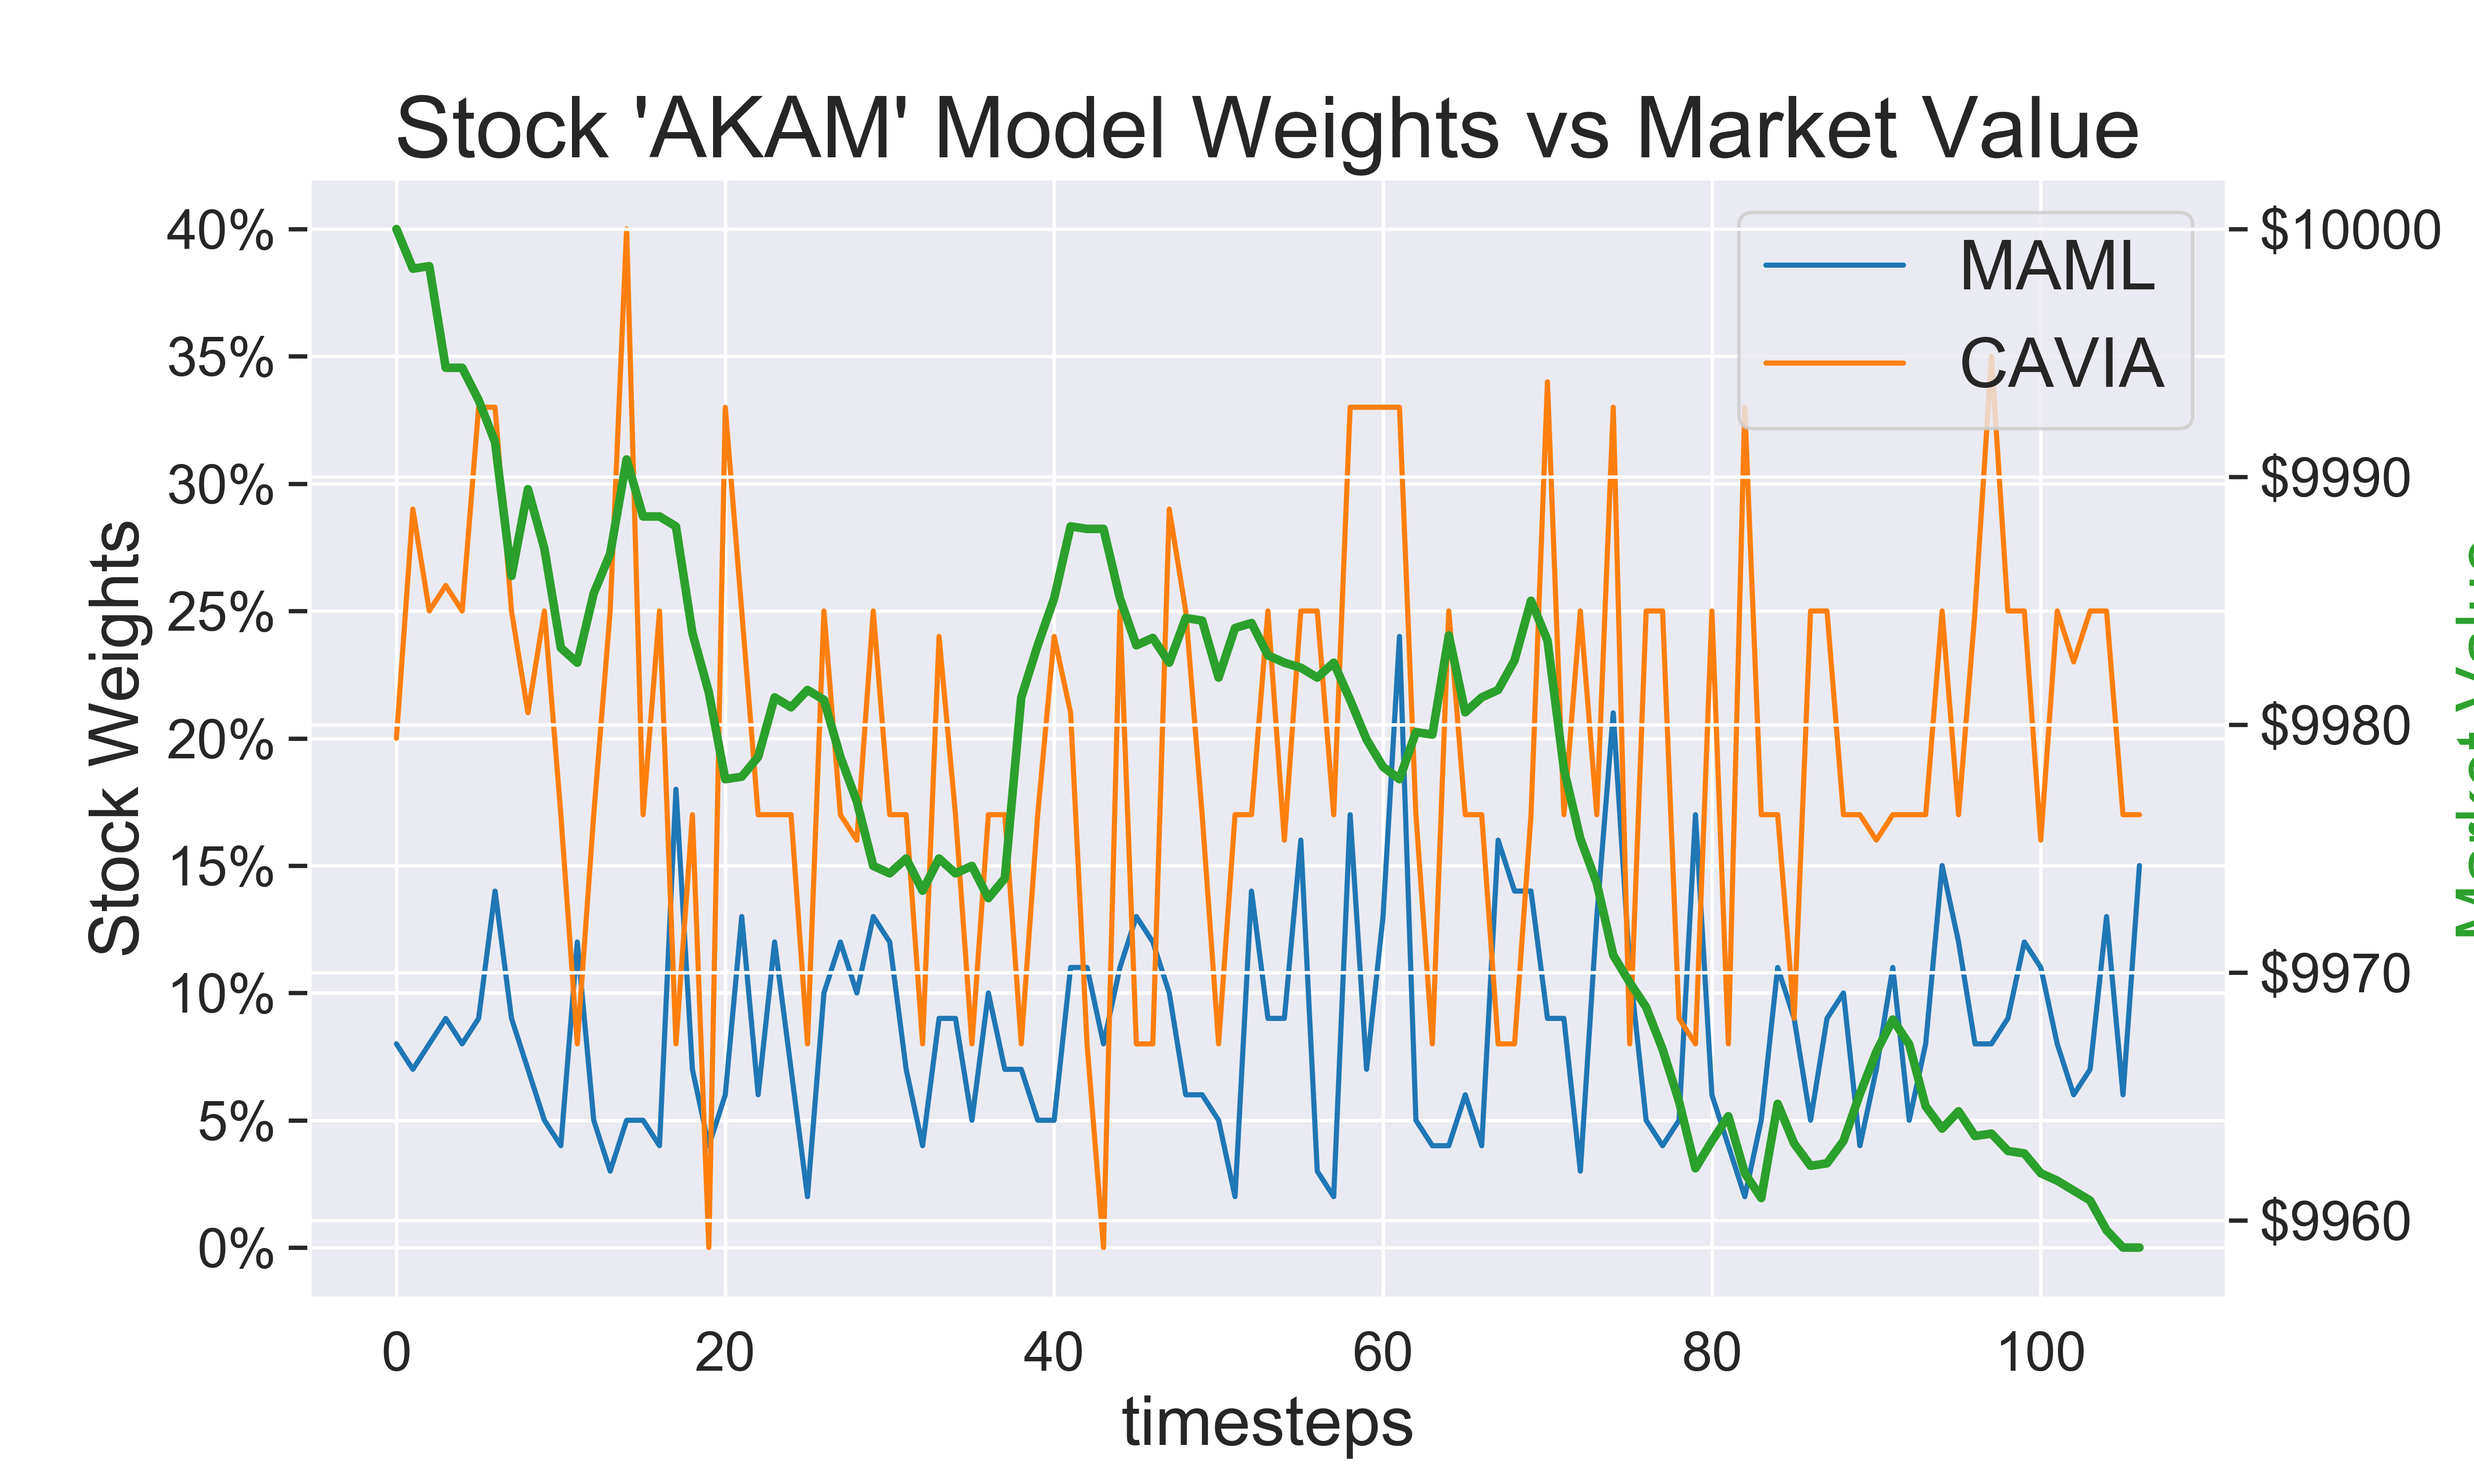
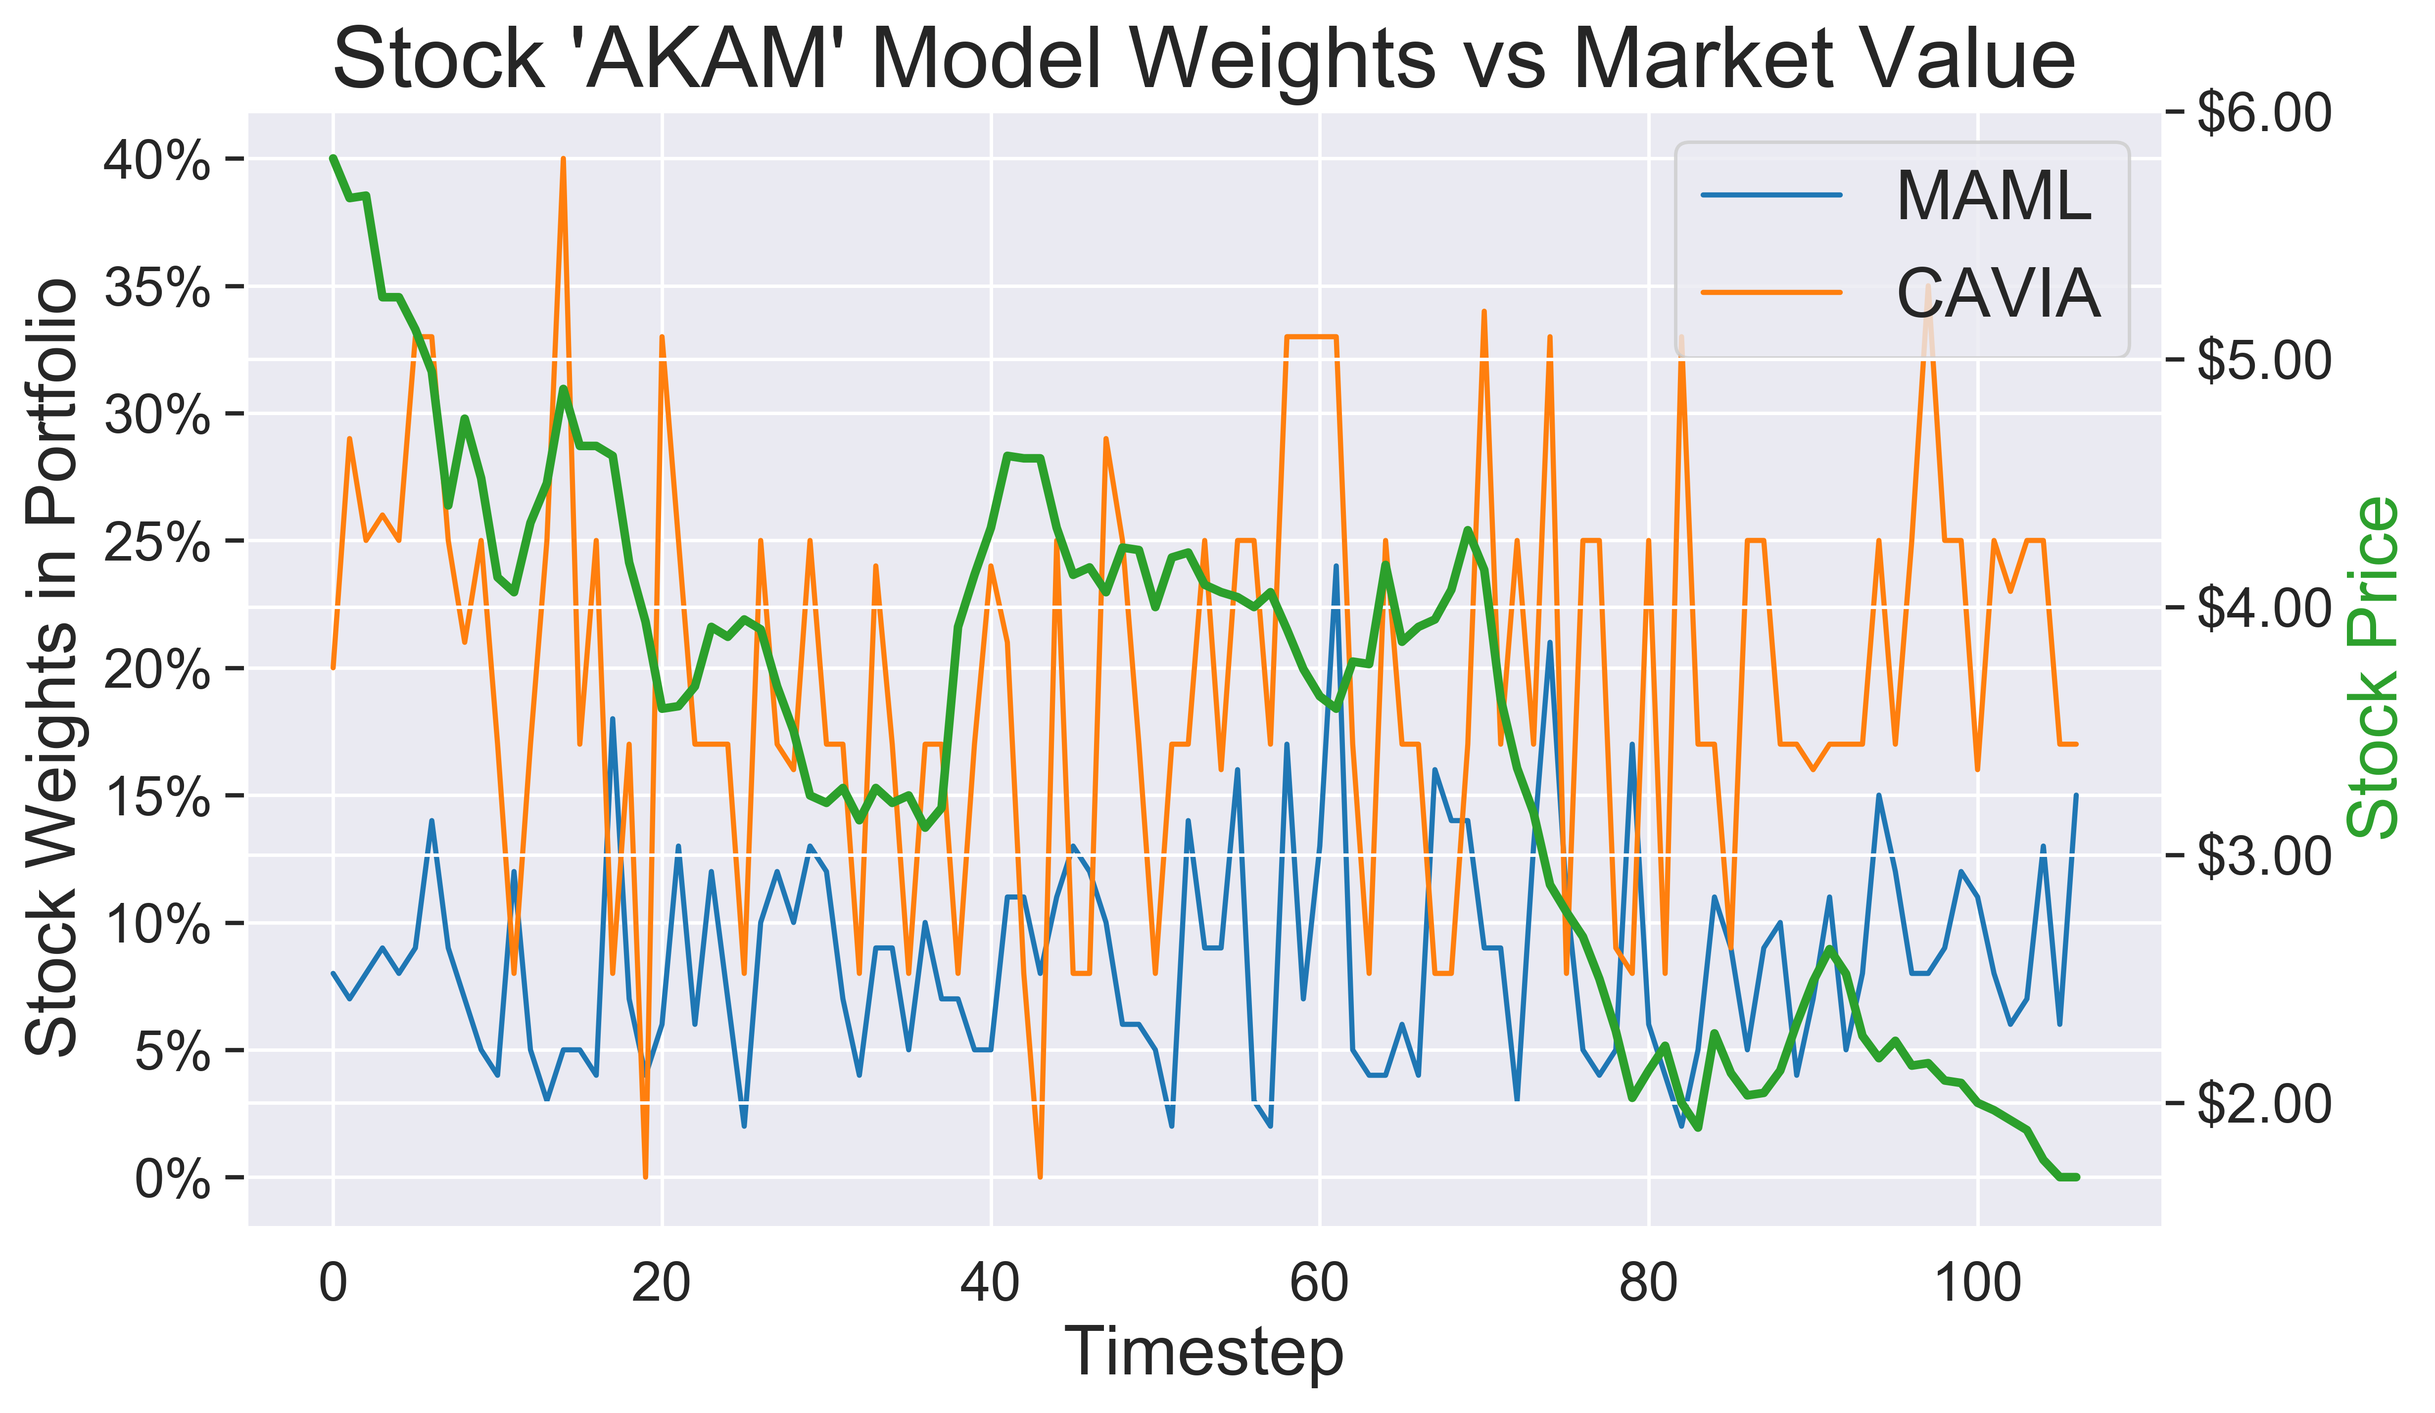
Fixed dollar stock amount

diff --git a/NES_Meta_Trading/plot_data.py b/NES_Meta_Trading/plot_data.py
@@ -292,7 +292,7 @@ def market_test_detail(trial_path1, trial_path2, data_path, title1, title2, plot
     # fig.suptitle(plot_title)
     fig.savefig(plot_save_loc)
 
-def market_test_stock(trial_path1, trial_path2, data_path, stock_name, plot_save_loc, num_days, offset, trading_limit=10, starting_money=10000):
+def market_test_stock(trial_path1, trial_path2, data_path, stock_name, label1, label2, label_loc, plot_save_loc, num_days, offset, trading_limit=10, starting_money=10000):
     # trial_path1 = 'C:/Github/QuantumResearch/NES_Meta_Trading/results/maml/test/E=20_PS=15_S=0.1_LR=0.03_sk=1_IM=10000_L=10_WS=10_ND=360'
     # trial_path2 = 'C:/Github/QuantumResearch/NES_Meta_Trading/results/cavia/test/E=20_PS=15_S=0.1_LR=0.03_sk=1_IM=10000_L=10_WS=10_ND=360'
     #
@@ -316,9 +316,11 @@ def market_test_stock(trial_path1, trial_path2, data_path, stock_name, plot_save
     # Process market data
     data, names = load_data(data_path,num_days)
     data = [d[int(len(d)*.7):-1] for d in data]
-    limit = trading_limit
-    starting_money = starting_money
-    data = [((np.array(d) - d[0]) * limit) + starting_money for d in data]
+    # limit = trading_limit
+    # starting_money = starting_money
+    # data = [((np.array(d) - d[0]) * limit) + starting_money for d in data]
+    # data = data[names.index('ABC')]
+    # data
 
     # Process trading data 1
     df1 = wrangle_data(trial_path1, sample = 'portfolio')
@@ -352,21 +354,22 @@ def market_test_stock(trial_path1, trial_path2, data_path, stock_name, plot_save
     # %%
     fig,ax = plt.subplots()
     ax.title.set_text("Stock '{:}' Model Weights vs Market Value".format(stock_name))
-    ax.plot(range(len(data)), means1, color=tableau10[0], label='MAML')
-    ax.plot(range(len(data)), means2, color=tableau10[1], label='CAVIA')
-    ax.set_xlabel("timesteps")
-    ax.set_ylabel("Stock Weights")
+    ax.plot(range(len(data)), means1, color=tableau10[0], label=label1)
+    ax.plot(range(len(data)), means2, color=tableau10[1], label=label2)
+    ax.set_xlabel("Timestep")
+    ax.set_ylabel("Stock Weights in Portfolio")
     vals = ax.get_yticks()
     ax.set_yticklabels(['{:}%'.format(int(x)) for x in vals])
-    ax.legend(loc='upper right')
+    ax.legend(loc=label_loc)
 
     ax2 = ax.twinx()
     ax2.plot(range(len(data)), data, color=tableau10[2], linewidth=2.5)
-    ax2.set_ylabel("Market Value", color=tableau10[2])
+    ax2.set_ylabel("Stock Price", color=tableau10[2])
     vals = ax2.get_yticks()
-    ax2.set_yticklabels(['${:}'.format(int(x)) for x in vals])
+    print(vals)
+    ax2.set_yticklabels(['${:.2f}'.format(x) for x in vals])
 
-    fig.savefig(plot_save_loc)
+    fig.savefig(plot_save_loc, bbox_inches="tight")
     # plt.show()
 
 market_test_stock(
@@ -374,6 +377,9 @@ market_test_stock(
     trial_path2= 'C:/Github/QuantumResearch/NES_Meta_Trading/results/cavia/test/E=20_PS=15_S=0.1_LR=0.03_sk=1_IM=10000_L=10_WS=10_ND=360',
     data_path = 'C:/Github/QuantumResearch/NES_Meta_Trading/dataset/test/',
     stock_name = 'AKAM',
+    label1 = 'MAML',
+    label2 = 'CAVIA',
+    label_loc = 'upper right',
     plot_save_loc = 'C:/Github/QuantumResearch/NES_Meta_Trading/graphics/CAVIA/detailed_trading_view_classical.png',
     num_days = 360,
     offset=-1
@@ -385,6 +391,9 @@ market_test_stock(
     trial_path2='C:/Github/QuantumResearch/NES_Meta_Trading/results/cavia_quantum/test/E=5_PS=15_S=0.1_LR=0.03_sk=1_IM=10000_L=None_WS=1_ND=180_NCP=2_BS=True',
     data_path = 'C:/Github/QuantumResearch/NES_Meta_Trading/dataset/test_cavia/',
     stock_name = 'ABC',
+    label1 = 'Q-MAML',
+    label2 = 'Q-CAVIA',
+    label_loc = 'lower right',
     plot_save_loc = 'C:/Github/QuantumResearch/NES_Meta_Trading/graphics/CAVIA_Quantum/detailed_trading_view_quantum_BS=True',
     num_days = 180,
     offset=-1
